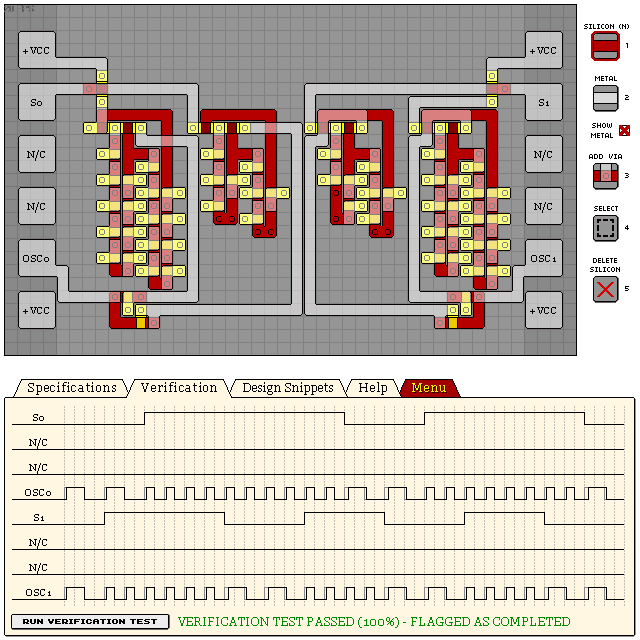
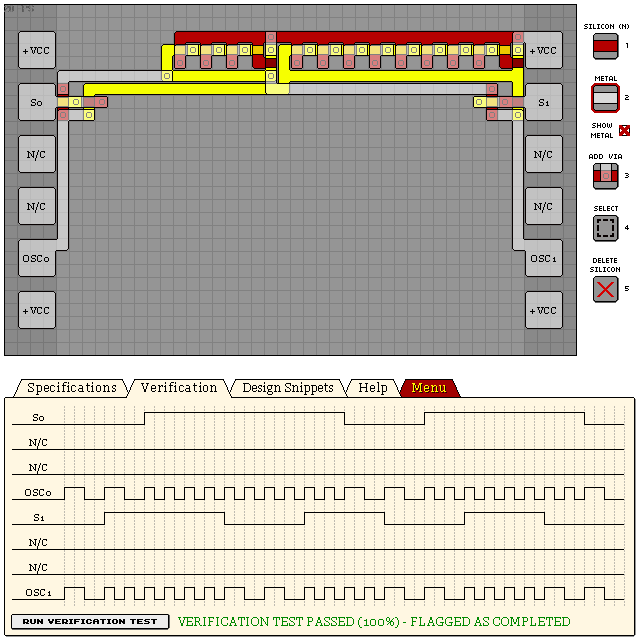
KO224X major refactor

Changed region(s): [[0.0625, 0.0312, 0.8438, 0.5312], [0.9062, 0.125, 0.9688, 0.1875], [0.9062, 0.0312, 0.9688, 0.0938]]

diff --git a/levels/08 KO224X DUAL FREQUENCY OSCILLATOR.md b/levels/08 KO224X DUAL FREQUENCY OSCILLATOR.md
@@ -1,29 +1,19 @@
 # KO224X - DUAL FREQUENCY OSCILLATOR
 
-Significantly overbuilt. Can be refactored significantly using oscillation method from [05](/levels/05%20KO223%20DUAL%20FIXED%20FREQUENCY%20OSCILLATOR.md).
-
 - Verification: Passed (100%)
-- Design Score: 623
+- Design Score: 231
 
 ```
[17 lines of base64/hex data omitted]
-zH0=
[9 lines of base64/hex data omitted]
+IoWvX3UuyOc=
 ```
 
 ![08 KO224X DUAL FREQUENCY OSCILLATOR](./assets/08.png)

diff --git a/README.md b/README.md
@@ -11,7 +11,7 @@ A collection of my solutions and snippets for [KOHCTPYKTOP: Engineer of the Peop
 - 05 [KO223 - DUAL FIXED FREQUENCY OSCILLATOR](/levels/05%20KO223%20DUAL%20FIXED%20FREQUENCY%20OSCILLATOR.md)
 - 06 [KL2S1 - DUAL SET-RESET LATCH](/levels/06%20KL2S1%20DUAL%20SET-RESET%20LATCH.md)
 - 07 [KL2T1 - DUAL TOGGLE LATCH](/levels/07%20KL2T1%20DUAL%20TOGGLE%20LATCH.md)
-- 08 [KO224X - DUAL FREQUENCY OSCILLATOR](/levels/08%20KO224X%20DUAL%20FREQUENCY%20OSCILLATOR.md) (Passed - WIP)
+- 08 [KO224X - DUAL FREQUENCY OSCILLATOR](/levels/08%20KO224X%20DUAL%20FREQUENCY%20OSCILLATOR.md)
 - 09 [KD124 - 2-TO-4 LINE DECODER](/levels/09%20KD124%202-TO-4%20LINE%20DECODER.md)
 - 10 [KA180 - 2-BIT ADDER WITH CARRY](/levels/10%20KA180%202-BIT%20ADDER%20WITH%20CARRY.md) (Passed - WIP)
 - 11 [KC82F - DIVIDE-BY-FOUR COUNTER](/levels/11%20KC82F%20DIVIDE-BY-FOUR%20COUNTER.md)
